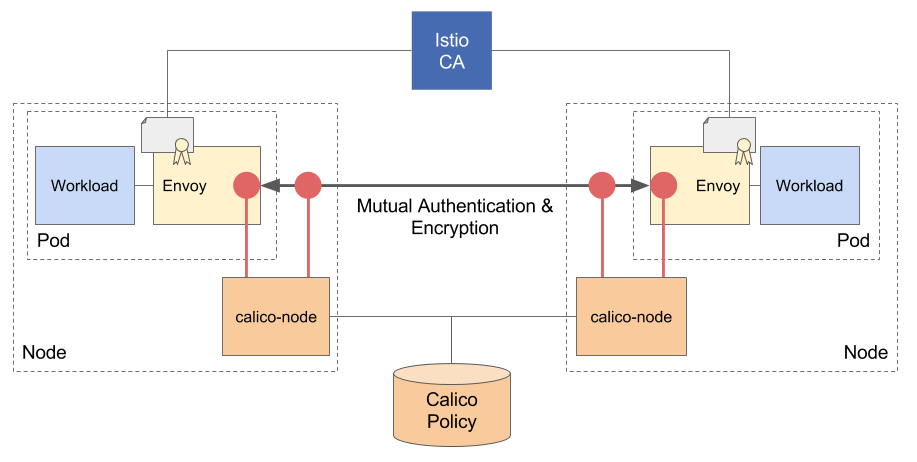
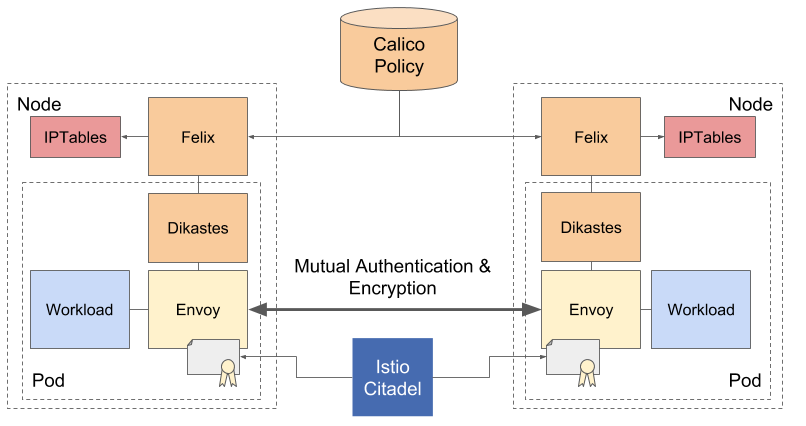
Update readme for GA information

diff --git a/README.md b/README.md
@@ -1,6 +1,6 @@
 # Application Layer Policy
 
-This is a technical preview of Application Layer Policy for [Project Calico][calico], which enforces network and
+Application Layer Policy for [Project Calico][calico] enforces network and
 application layer authorization policies using [Istio].
 
 ![arch](https://github.com/projectcalico/app-policy/raw/master/docs/arch.png)
@@ -9,8 +9,8 @@ Istio mints and distributes cryptographic identities and uses them to establish 
 between pods.  Calico enforces authorization policy on this communication integrating cryptographic identities and 
 network layer attributes.
 
-A small shim filter is inserted into the proxy, which calls out to Calico components when service requests are
-processed.  We compute policy based on a global store which is distributed to the Calico components.
+The `envoy.ext_authz` filter inserted into the proxy, which calls out to Dikastes when service requests are
+processed.  We compute policy based on a global store which is distributed to Dikastes by its local Felix.
  
 ## Getting Started
  
@@ -381,14 +381,11 @@ service account we disallow the connection.
 
 ## Known Limitations
 
-This is an early access preview and it has not been fully integrated with all aspects of Calico.  In particular
 
- - Only GlobalNetworkPolicies are supported.  Calico NetworkPolicy objects cannot yet be used for Application Layer 
-   Policy
- - Only `Allow` rules are fully supported.  The demo supports whitelisting traffic with allow rules.  More advanced use
-   cases like mixing `Allow` and `Deny` rules are not yet supported.
- - The decision engine queries the Kube API Server on every request.  This is fine for small test applications, but
-   will not scale to large clusters.  Future versions will integrate with the API sync functionality in `calico-node`.
+ - Only `Allow` rules can be used with Application Layer Policy selectors. If you use `Deny` or `Pass` rules they
+   must be restricted to network layer selectors.
+ - Application Layer Policy selectors are only supported on ingress policy.  If you use egress policy, you must
+   restrict to network layer selectors.
 
 ## FAQ
 
